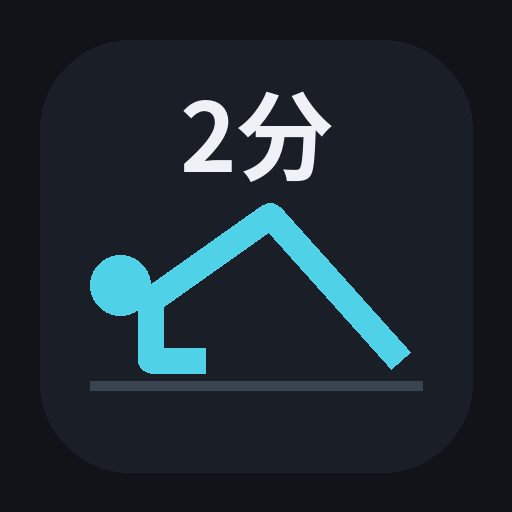
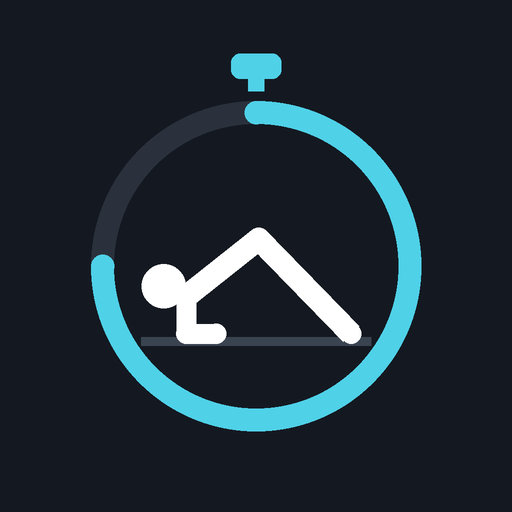
アプリ名を「ちょいトレ」に変更、アイコンを刷新
Claude-Session: https://claude.ai/code/session_01TqeBiWqQd5MSp8ocWExE15

Changed region(s): [[0.1562, 0.0938, 0.8438, 0.8438]]

diff --git a/index.html b/index.html
@@ -3,10 +3,10 @@
 <head>
 <meta charset="utf-8">
 <meta name="viewport" content="width=device-width, initial-scale=1">
-<title>2分ワークアウト</title>
+<title>ちょいトレ</title>
 <meta name="theme-color" content="#101318">
 <meta name="apple-mobile-web-app-capable" content="yes">
-<meta name="apple-mobile-web-app-title" content="2分ワークアウト">
+<meta name="apple-mobile-web-app-title" content="ちょいトレ">
 <link rel="apple-touch-icon" href="icon-180.png">
 <link rel="manifest" href="manifest.json">
 <style>
